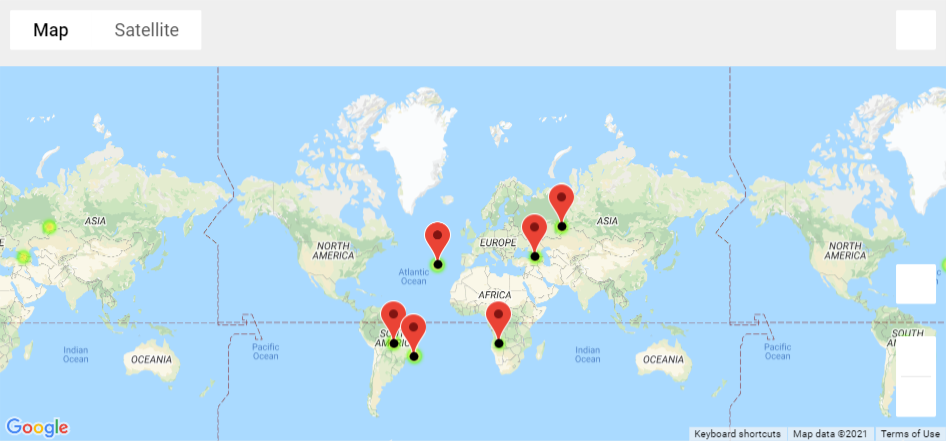
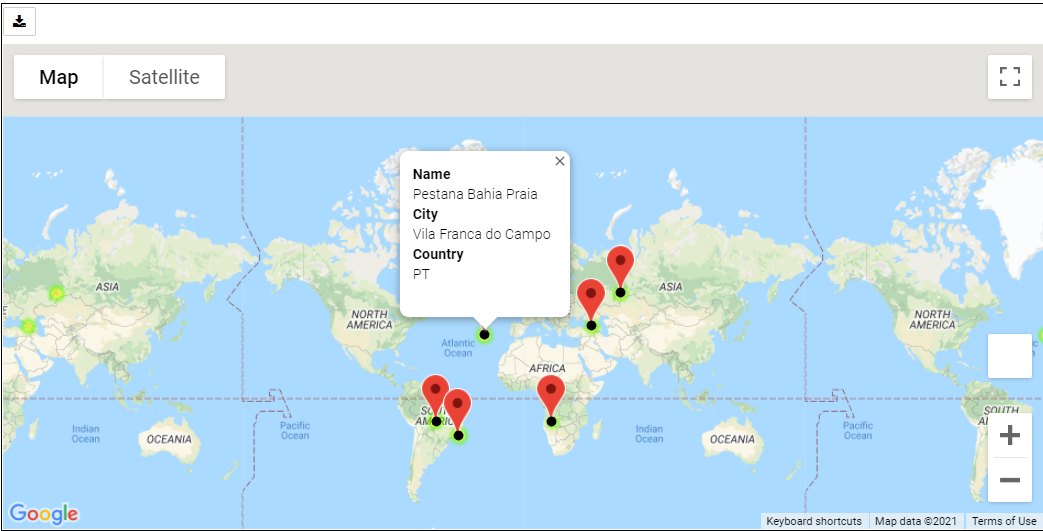
final

diff --git a/README.md b/README.md
@@ -6,21 +6,21 @@ python-api-challenge Assignment - Milinda 'ML' Liyanage
 ## Summary
 
 * This program is done in two steps.
-* Getting the set cities and then mapping them on Google maps 
+* Getting a set of cities, doing some statistical analysis, and then mapping a selected set of cities on Google maps 
 
 ### The following steps were done in the first stage: 
 
 * Create a random set of latitude and longitude coordinates. 
-* Read the nearest city for each combination
-* Using the city list, obtain the weather making an API call to the open weather map.
-* Skip If there are no weather information for a particular city. Target is to get just over 500 
+* Read the nearest city for each latitude and longitude combination
+* Using the city list, obtain the weather by making an API call to the open weather map.
+* Skip if there are no weather information for a particular city. Target is to get just over 500 cities
 * The read data is then converted into a data frame
 * Save the data on to csv file
-* To do a statical analysis the data is cleaned by removing  any outliers
-* Few scatter plots are done with latitude and other values such as humidity, maximum temperature, cloudiness & wind speed.
+* To do some statical analysis the data is cleaned by removing  any outliers
+* Few scatter plots were done with latitude and other variables such as humidity, maximum temperature, cloudiness & wind speed.
 
 
-## Analysiss of the Data
+### Analysis of the Data
 * By looking at the scatter plot the maximum temperature rises as the latitude get to 0, i.e., close to the equator. This also can be confirmed by looking at the linear regression, where the northern hemisphere’s r value is at -0.67 and the southern hemisphere’s r value is at 0.7.
 As both values are close to -1 and 1 respectively, we can conclude that there is a negative correlation between maximum temperature and latitude for the northern hemisphere and a positive  correlation between maximum temperature and latitude for the southern hemisphere.
 
@@ -29,14 +29,12 @@ As both values are close to -1 and 1 respectively, we can conclude that there is
 * The wind speed for almost all cities selected are between 0 and 15 kmph. There are a few outliners, but they are also close to upper range. The r values for north and south hemisphere are close 0.1, therefore, it can be concluded that from the selected cities there are no windy cities.
 
 
-### The following steps were done in the second stage: 
+### In the second stage the following steps were done: 
 
-* Read previosly saved csv file in a data frame.
-Usung google mapsCreate a random set of latitude and longitude coordinates. 
-* Read the nearest city for each combination
-* Using the city list, obtain the weather making an API call to the open weather map.
-* Skip If there are no weather information for a particular city. Target is to get just over 500 
-* The read data is then converted into a data frame
-* Save the data on to csv file
-* To do a statical analysis the data is cleaned by removing  any outliers
-* Few scatter plots are done with latitude and other values such as humidity, maximum temperature, cloudiness & wind speed.
+* Reading the previously saved csv file into a data frame. 
+* Map the cities using humidity as the heat map.
+* Reduce the cities by a set of conditions
+* Getting a set of hotels within a 5k radius and overlaying on a humidity heat map.
+* Markers were also shown with the hotel name, city, and country.
+
+
